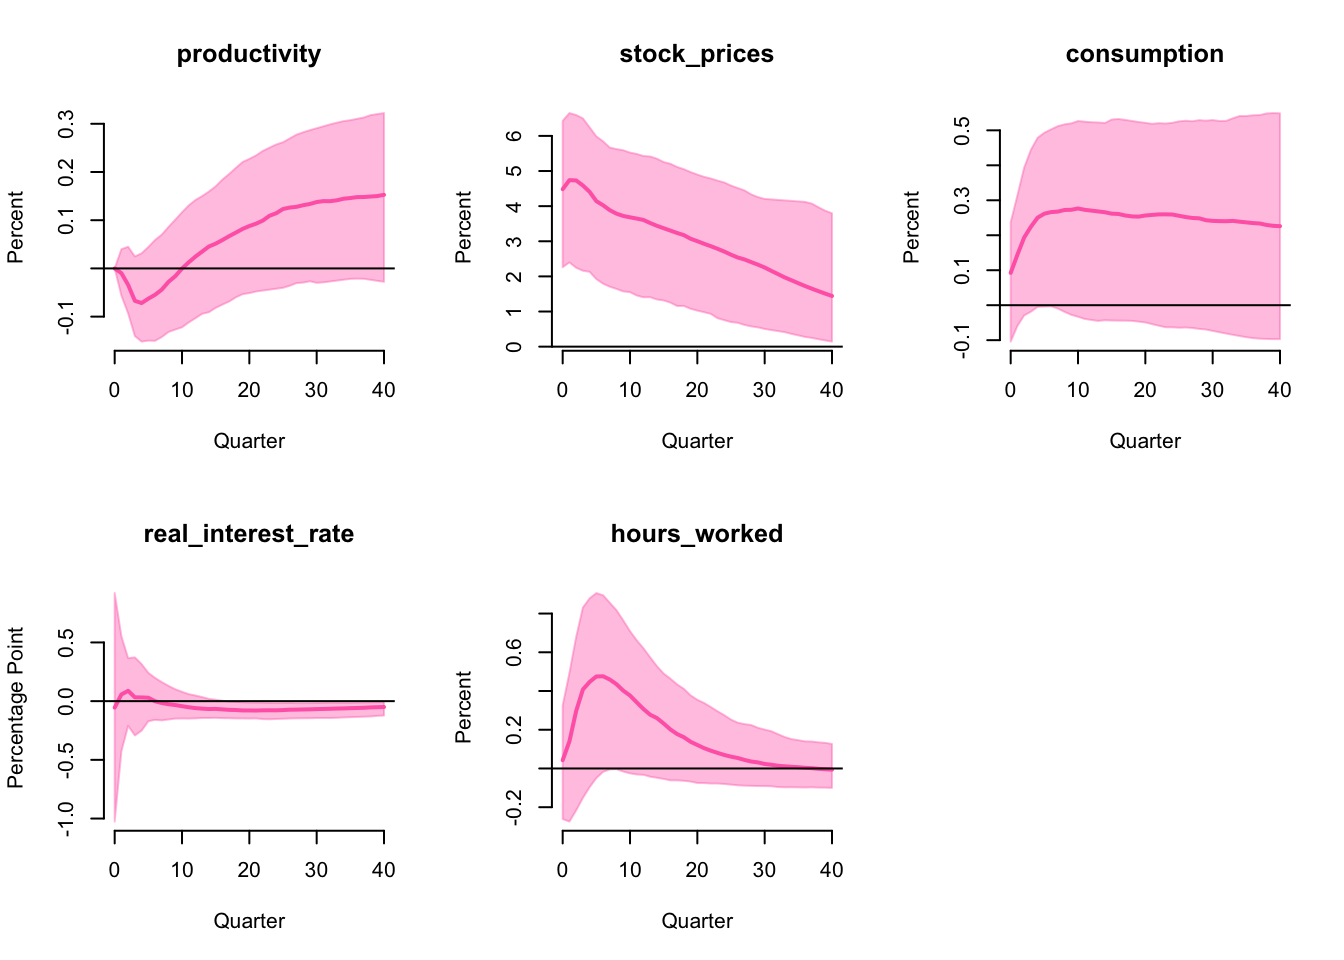
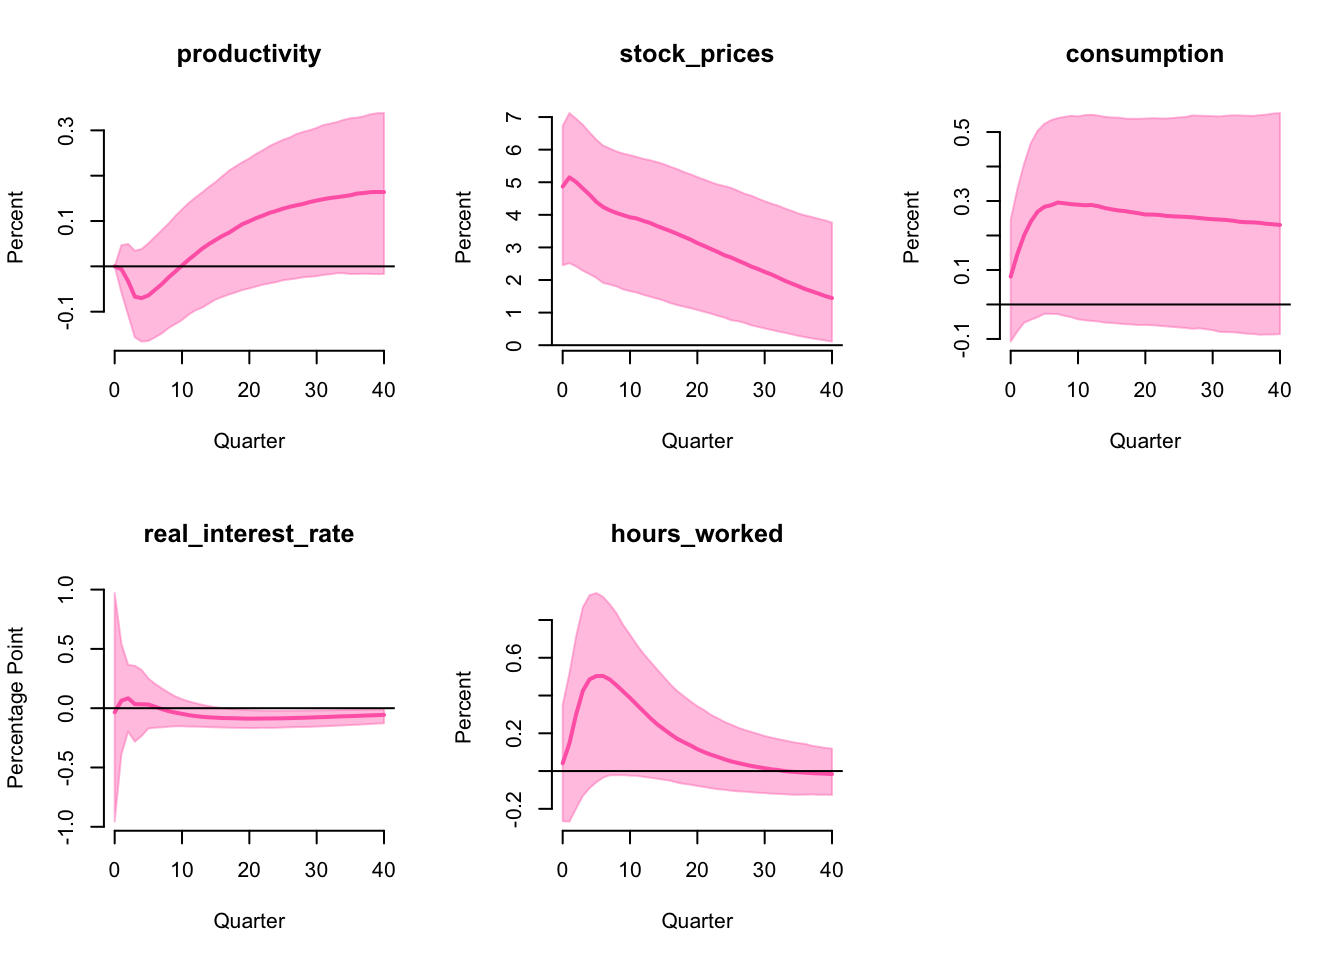
debug in bsvarSIGNs

diff --git a/docs/index.html b/docs/index.html
@@ -441,7 +441,7 @@ div.csl-indent {
 </tr>
 <tr class="odd">
 <td style="text-align: left;">consumption</td>
-<td style="text-align: right;">0.6170</td>
+<td style="text-align: right;">0.6167</td>
 <td style="text-align: right;">1</td>
 </tr>
 <tr class="even">
@@ -801,13 +801,13 @@ p(\mathbf{B},\mathbf{\Sigma}|\mathbf{Y})
 <tbody>
 <tr class="odd">
 <td style="text-align: left;">y1</td>
-<td style="text-align: right;">0.9768</td>
+<td style="text-align: right;">0.9760</td>
 <td style="text-align: right;">0.0881</td>
 </tr>
 <tr class="even">
 <td style="text-align: left;">y2</td>
 <td style="text-align: right;">0.0881</td>
-<td style="text-align: right;">1.0157</td>
+<td style="text-align: right;">1.0146</td>
 </tr>
 </tbody>
 </table>
@@ -916,8 +916,8 @@ u_{2,t}\\
 <div class="cell">
 <div class="cell-output cell-output-stdout">
 <pre><code>        [,1]   [,2]
-[1,] -0.9636 1.0463
-[2,]  0.9630 0.0000</code></pre>
+[1,] -0.9613 1.0448
+[2,]  0.9614 0.0000</code></pre>
 </div>
 </div>
 </section>
@@ -1022,33 +1022,33 @@ u_{2,t}\\
 <tbody>
 <tr class="odd">
 <td style="text-align: left;">productivity</td>
-<td style="text-align: right;">1.61</td>
-<td style="text-align: right;">7.43</td>
-<td style="text-align: right;">18.96</td>
+<td style="text-align: right;">2.05</td>
+<td style="text-align: right;">7.69</td>
+<td style="text-align: right;">20.72</td>
 </tr>
 <tr class="even">
 <td style="text-align: left;">stock_prices</td>
-<td style="text-align: right;">5.30</td>
-<td style="text-align: right;">19.65</td>
-<td style="text-align: right;">44.40</td>
+<td style="text-align: right;">5.28</td>
+<td style="text-align: right;">18.58</td>
+<td style="text-align: right;">42.68</td>
 </tr>
 <tr class="odd">
 <td style="text-align: left;">consumption</td>
-<td style="text-align: right;">5.67</td>
-<td style="text-align: right;">17.42</td>
-<td style="text-align: right;">42.79</td>
+<td style="text-align: right;">5.40</td>
+<td style="text-align: right;">18.76</td>
+<td style="text-align: right;">43.13</td>
 </tr>
 <tr class="even">
 <td style="text-align: left;">real_interest_rate</td>
-<td style="text-align: right;">6.72</td>
+<td style="text-align: right;">5.70</td>
 <td style="text-align: right;">19.69</td>
-<td style="text-align: right;">42.67</td>
+<td style="text-align: right;">43.41</td>
 </tr>
 <tr class="odd">
 <td style="text-align: left;">hours_worked</td>
-<td style="text-align: right;">4.78</td>
-<td style="text-align: right;">12.77</td>
-<td style="text-align: right;">36.46</td>
+<td style="text-align: right;">4.34</td>
+<td style="text-align: right;">14.42</td>
+<td style="text-align: right;">33.82</td>
 </tr>
 </tbody>
 </table>
@@ -1103,33 +1103,33 @@ u_{2,t}\\
 <tbody>
 <tr class="odd">
 <td style="text-align: left;">productivity</td>
-<td style="text-align: right;">1.28</td>
-<td style="text-align: right;">6.92</td>
-<td style="text-align: right;">24.64</td>
+<td style="text-align: right;">1.30</td>
+<td style="text-align: right;">7.07</td>
+<td style="text-align: right;">24.79</td>
 </tr>
 <tr class="even">
 <td style="text-align: left;">stock_prices</td>
-<td style="text-align: right;">3.36</td>
-<td style="text-align: right;">13.45</td>
-<td style="text-align: right;">46.39</td>
+<td style="text-align: right;">3.31</td>
+<td style="text-align: right;">14.16</td>
+<td style="text-align: right;">41.86</td>
 </tr>
 <tr class="odd">
 <td style="text-align: left;">consumption</td>
-<td style="text-align: right;">3.22</td>
-<td style="text-align: right;">13.00</td>
-<td style="text-align: right;">41.12</td>
+<td style="text-align: right;">3.41</td>
+<td style="text-align: right;">14.19</td>
+<td style="text-align: right;">41.68</td>
 </tr>
 <tr class="even">
 <td style="text-align: left;">real_interest_rate</td>
-<td style="text-align: right;">3.19</td>
-<td style="text-align: right;">17.72</td>
-<td style="text-align: right;">40.05</td>
+<td style="text-align: right;">3.45</td>
+<td style="text-align: right;">14.17</td>
+<td style="text-align: right;">42.94</td>
 </tr>
 <tr class="odd">
 <td style="text-align: left;">hours_worked</td>
-<td style="text-align: right;">3.53</td>
-<td style="text-align: right;">15.97</td>
-<td style="text-align: right;">46.94</td>
+<td style="text-align: right;">3.60</td>
+<td style="text-align: right;">18.65</td>
+<td style="text-align: right;">48.86</td>
 </tr>
 </tbody>
 </table>
@@ -1187,33 +1187,33 @@ u_{2,t}\\
 <tbody>
 <tr class="odd">
 <td style="text-align: left;">productivity</td>
-<td style="text-align: right;">1.72</td>
-<td style="text-align: right;">8.70</td>
-<td style="text-align: right;">28.70</td>
+<td style="text-align: right;">1.76</td>
+<td style="text-align: right;">8.49</td>
+<td style="text-align: right;">28.01</td>
 </tr>
 <tr class="even">
 <td style="text-align: left;">stock_prices</td>
-<td style="text-align: right;">2.94</td>
-<td style="text-align: right;">13.15</td>
-<td style="text-align: right;">43.17</td>
+<td style="text-align: right;">3.56</td>
+<td style="text-align: right;">14.31</td>
+<td style="text-align: right;">41.36</td>
 </tr>
 <tr class="odd">
 <td style="text-align: left;">consumption</td>
-<td style="text-align: right;">3.23</td>
-<td style="text-align: right;">14.68</td>
-<td style="text-align: right;">40.76</td>
+<td style="text-align: right;">3.29</td>
+<td style="text-align: right;">14.16</td>
+<td style="text-align: right;">41.52</td>
 </tr>
 <tr class="even">
 <td style="text-align: left;">real_interest_rate</td>
-<td style="text-align: right;">3.75</td>
-<td style="text-align: right;">14.42</td>
-<td style="text-align: right;">41.46</td>
+<td style="text-align: right;">3.44</td>
+<td style="text-align: right;">13.15</td>
+<td style="text-align: right;">41.40</td>
 </tr>
 <tr class="odd">
 <td style="text-align: left;">hours_worked</td>
-<td style="text-align: right;">3.86</td>
-<td style="text-align: right;">17.19</td>
-<td style="text-align: right;">46.89</td>
+<td style="text-align: right;">3.41</td>
+<td style="text-align: right;">17.74</td>
+<td style="text-align: right;">47.62</td>
 </tr>
 </tbody>
 </table>
